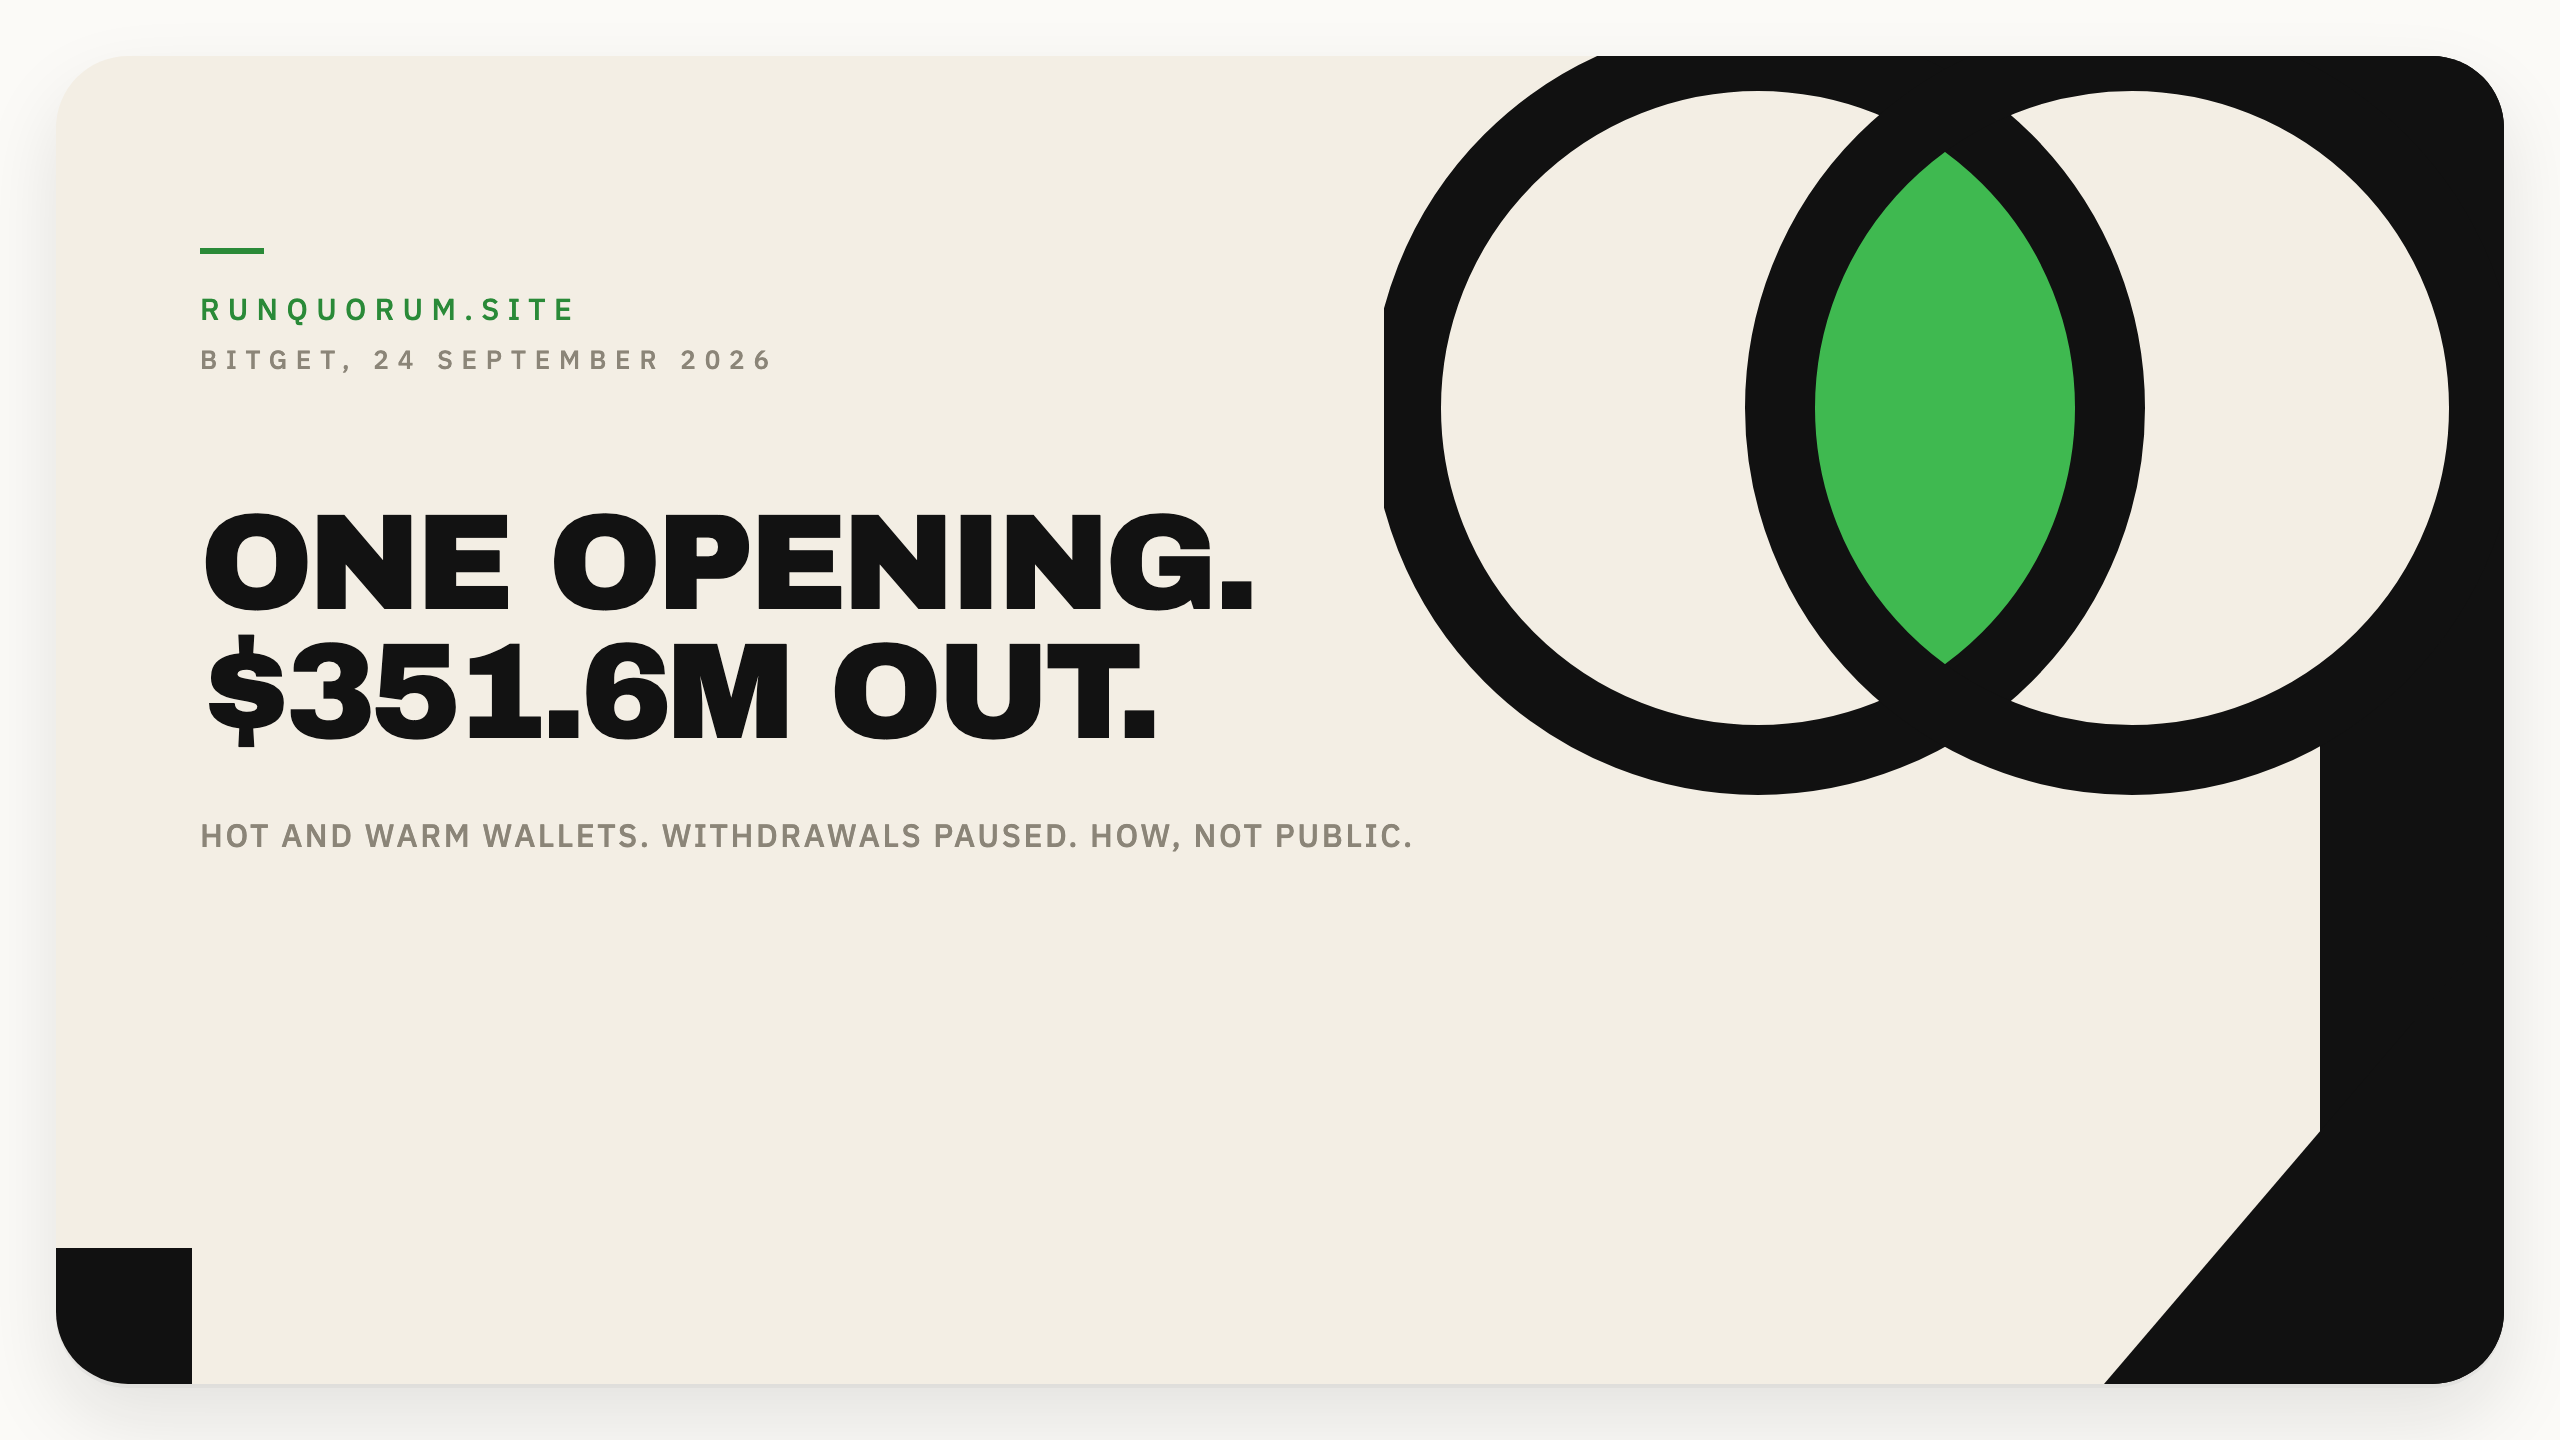
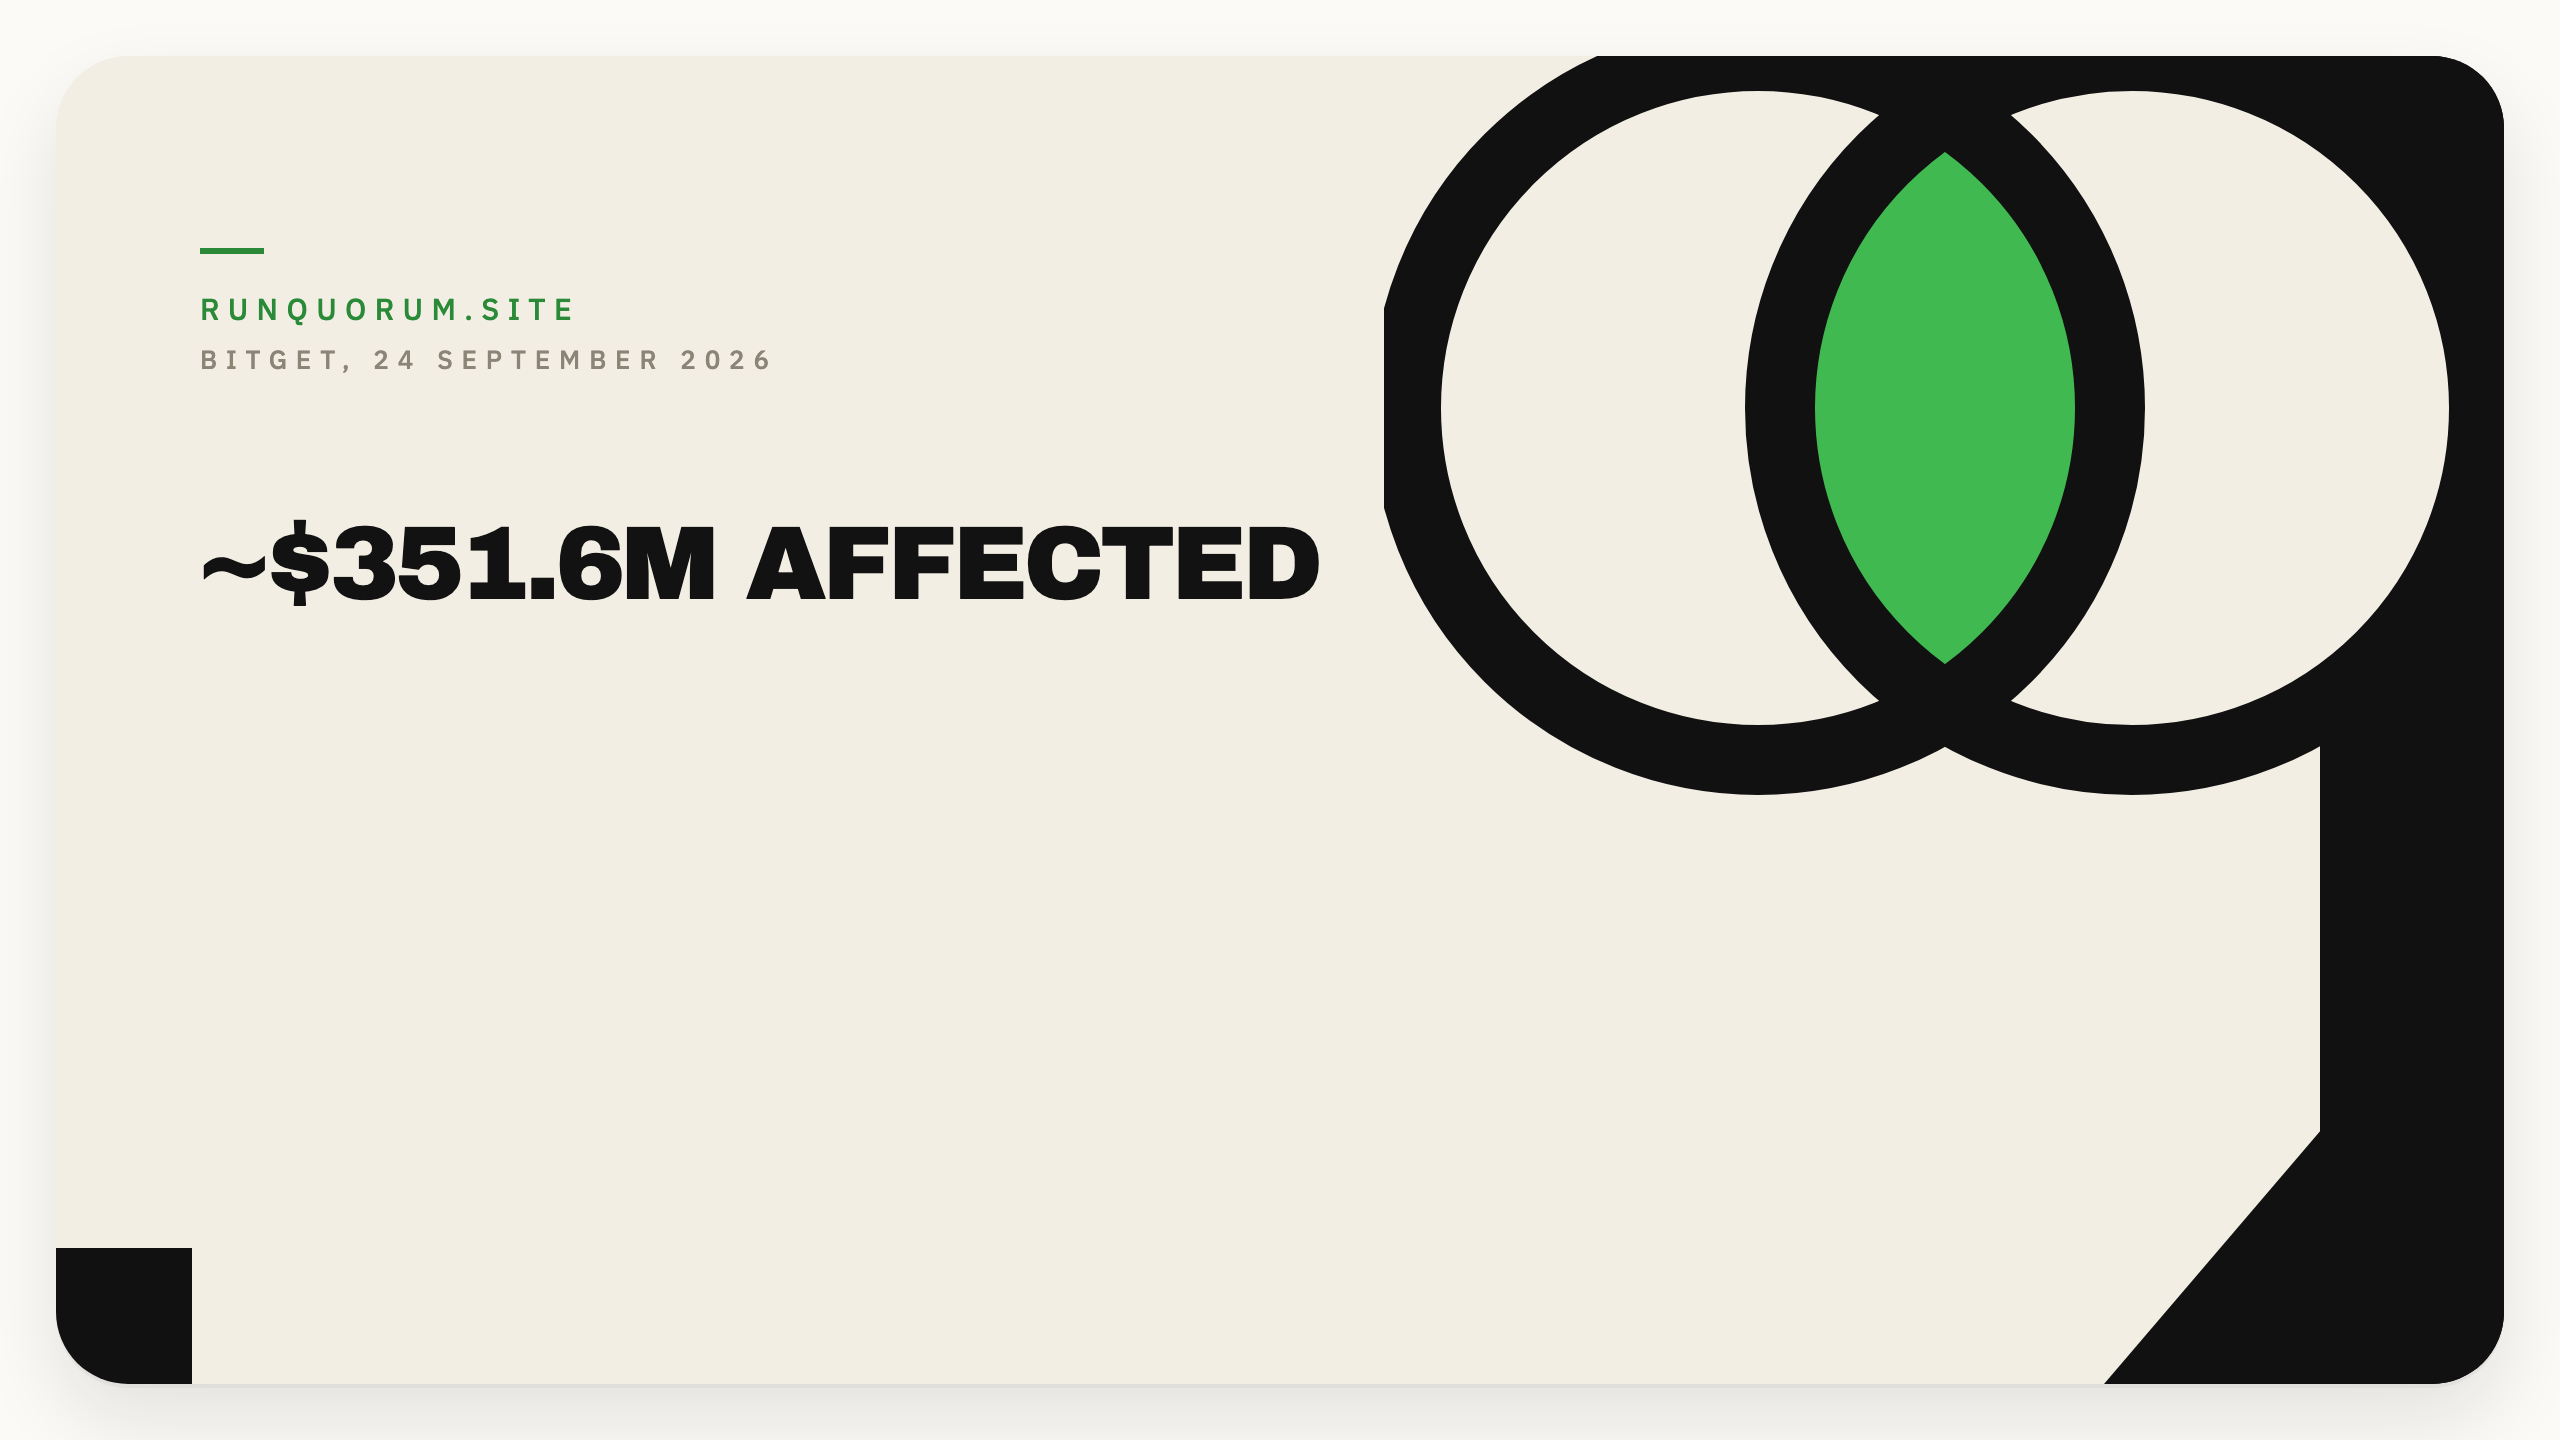
The Bitget card says only the affected figure

Changed region(s): [[0.0625, 0.3438, 0.5312, 0.5312], [0.0625, 0.5625, 0.5625, 0.5938]]

diff --git a/brand/post-bitget.html b/brand/post-bitget.html
@@ -93,10 +93,10 @@
   }
 
   h1 {
-    margin-top: 64px;
+    margin-top: 72px;
     font-family: "Archivo Black", sans-serif;
     font-weight: 400;
-    font-size: 68px;
+    font-size: 52px;
     line-height: 0.95;
     letter-spacing: -0.04em;
     color: var(--ink);
@@ -105,16 +105,6 @@
   }
 
   h1 span { display: block; }
-
-  .amount {
-    margin-top: 28px;
-    font-family: "IBM Plex Sans", sans-serif;
-    font-weight: 500;
-    font-size: 16px;
-    letter-spacing: 0.08em;
-    color: var(--muted);
-    text-transform: uppercase;
-  }
 
   .anchor {
     position: absolute;
@@ -151,10 +141,8 @@
         <div class="kicker">runquorum.site</div>
         <div class="status">bitget, 24 september 2026</div>
         <h1>
-          <span>One opening.</span>
-          <span>$351.6M out.</span>
+          <span>~$351.6M affected</span>
         </h1>
-        <div class="amount">hot and warm wallets. withdrawals paused. how, not public.</div>
       </div>
 
       <div class="anchor" aria-hidden="true"></div>
